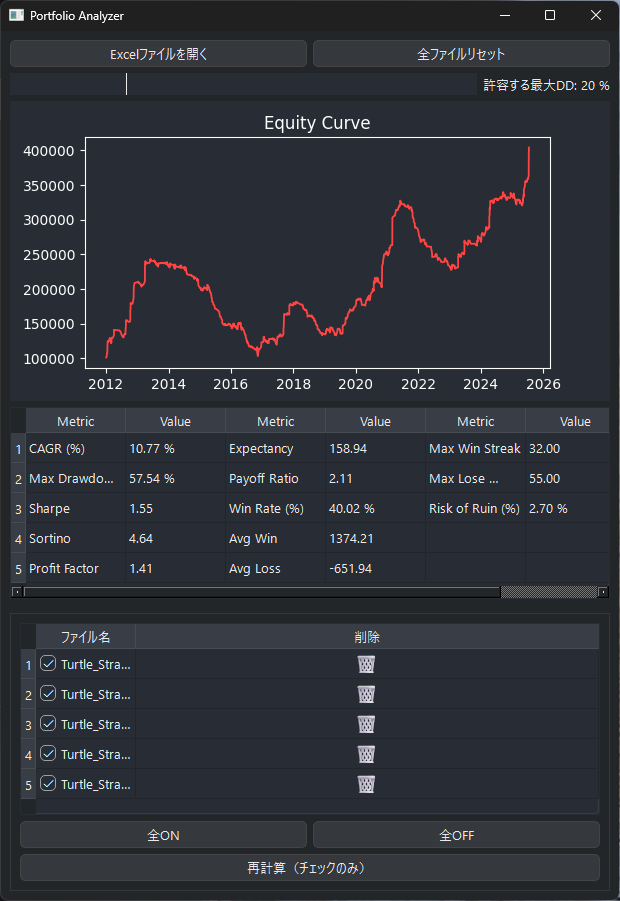
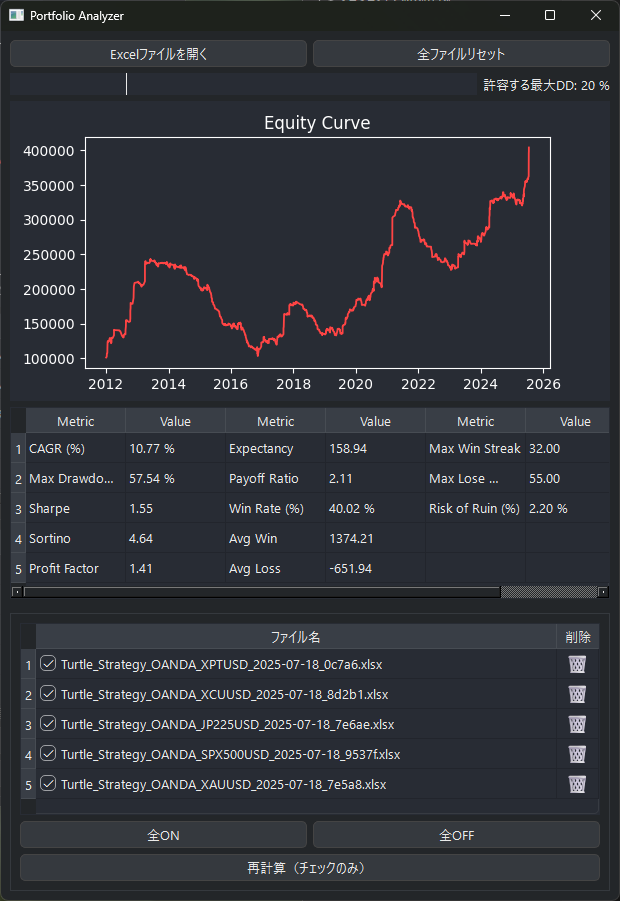
Update: Add Payoff Ratio and improve metrics, GUI features

diff --git a/pyqt_portfolio_analyzer/views/main_window.py b/pyqt_portfolio_analyzer/views/main_window.py
@@ -1,7 +1,7 @@
 from PyQt6.QtCore import Qt
 from PyQt6.QtWidgets import (
     QMainWindow, QFileDialog, QWidget, QVBoxLayout, QPushButton, QLabel, QTableWidget,
-    QTableWidgetItem, QSlider, QHBoxLayout, QGroupBox, QAbstractItemView
+    QTableWidgetItem, QSlider, QHBoxLayout, QGroupBox, QAbstractItemView, QHeaderView
 )
 from matplotlib.backends.backend_qt5agg import FigureCanvasQTAgg as FigureCanvas
 from matplotlib.figure import Figure
@@ -50,7 +50,6 @@ class MainWindow(QMainWindow):
         # チャート
         self.canvas = FigureCanvas(Figure(figsize=(6, 3)))
         self.ax = self.canvas.figure.subplots()
-        # ←ここで初期時も背景を黒っぽく
         self.ax.set_facecolor("#282c34")
         self.canvas.figure.set_facecolor("#282c34")
         self.ax.set_title("Equity Curve", color="white")
@@ -72,7 +71,9 @@ class MainWindow(QMainWindow):
         self.file_table = QTableWidget()
         self.file_table.setColumnCount(2)
         self.file_table.setHorizontalHeaderLabels(["ファイル名", "削除"])
-        self.file_table.horizontalHeader().setStretchLastSection(True)
+        # ▼ここがポイント
+        self.file_table.horizontalHeader().setSectionResizeMode(0, QHeaderView.ResizeMode.Stretch)         # ファイル名：最大幅
+        self.file_table.horizontalHeader().setSectionResizeMode(1, QHeaderView.ResizeMode.ResizeToContents) # 削除：必要最小
         self.file_table.setSelectionMode(QAbstractItemView.SelectionMode.NoSelection)
         file_vbox.addWidget(self.file_table)
 
@@ -176,7 +177,6 @@ class MainWindow(QMainWindow):
     # View 更新
     def clear_chart_and_metrics(self):
         self.ax.clear()
-        # 背景・枠を常時ダークグレー
         self.ax.set_facecolor("#282c34")
         self.canvas.figure.set_facecolor("#282c34")
         self.ax.set_title("Equity Curve", color="white")
@@ -192,10 +192,8 @@ class MainWindow(QMainWindow):
 
     def update_chart(self, equity):
         self.ax.clear()
-        # ダークグレー背景を維持
         self.ax.set_facecolor("#282c34")
         self.canvas.figure.set_facecolor("#282c34")
-        # 赤色でやや細めのライン（linewidth=1.3）
         self.ax.plot(equity.index, equity.values, color="#ff4444", linewidth=1.3)
         self.ax.set_title("Equity Curve", color="white")
         self.ax.tick_params(colors="white")
